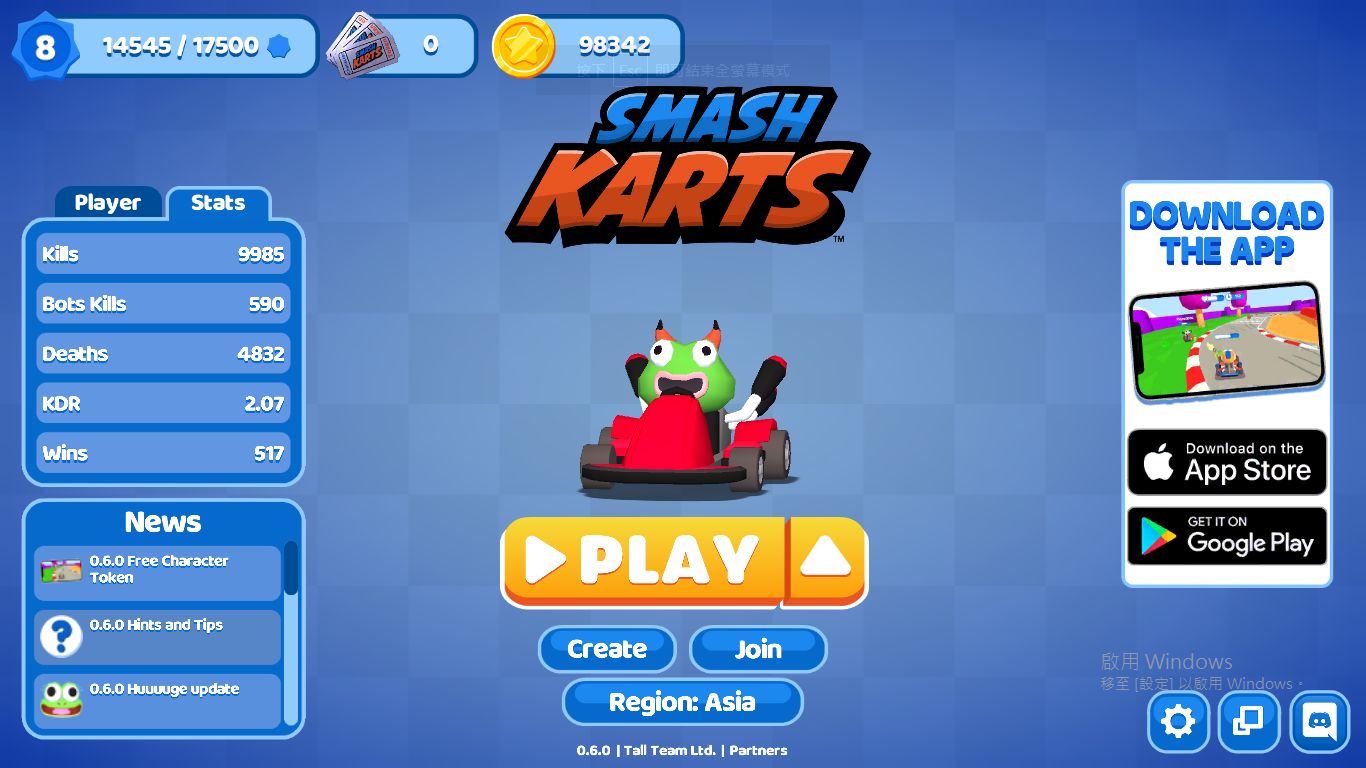
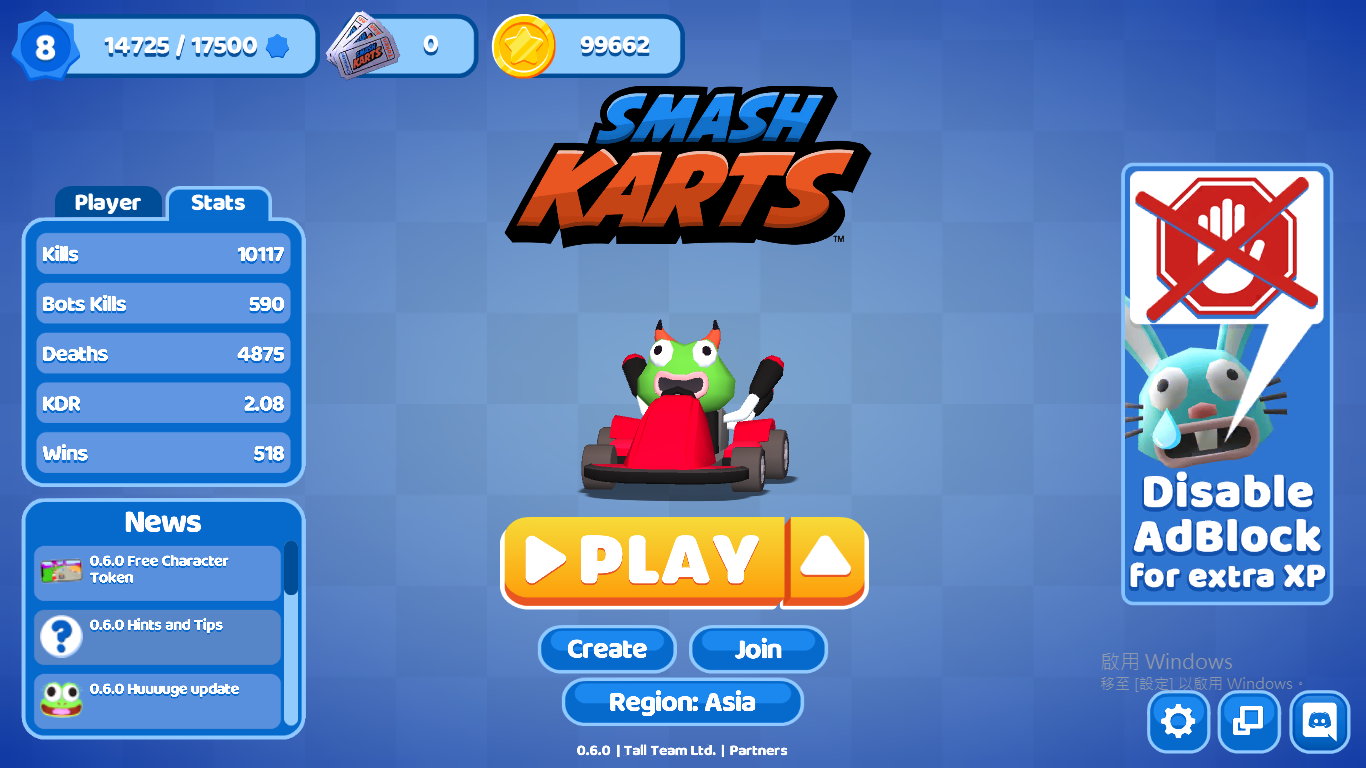
Added AlphaZero's Alt, Cruise, dreamisabadfriend, FireStorm, hotlex, KF x-ium1, NotANovice, Nought, Zeoyxl. Updated Bowser, Drew, Fubster, GetCoolAlready, haedcase, OscarTsai, smashking283, Smatisfaction, Waris Ja

diff --git a/playerList.js b/playerList.js
@@ -100,6 +100,15 @@ let player = [
      '2.30',
      17,
      '5.31.2021'],
+    ['AlphaZerosAlt.png',
+     'Alpha Zero\'s Alt' + newPlayer,
+     1072,
+     16225,
+     1004,
+     7250,
+     '2.24',
+     1,
+     '6.3.2021'],
      ['ANCIENT.png',
      'ANCIENT',
      786,
@@ -201,13 +210,13 @@ let player = [
      '5.19.2021'],
     ['Bowser.png',
      'Bowser',
-     1963,
-     28427,
-     9072,
-     14983,
-     '1.90',
-     13,
-     '5.28.2021'],
+     2034,
+     29355,
+     9083,
+     15307,
+     '1.92',
+     14,
+     '6.3.2021'],
     ['brandoom500.png',
      'brandoom500',
      167,
@@ -289,6 +298,15 @@ let player = [
      '1.16',
      12,
      '5.22.2021'],
+    ['Cruise.png',
+     'Cruise' + newPlayer,
+     639,
+     9148,
+     378,
+     6341,
+     '1.44',
+     16,
+     '6.3.2021'],
     ['David.png',
      'David',
      894,
@@ -316,15 +334,24 @@ let player = [
      '0.48',
      6,
      '5.31.2021'],
+    ['dreamisabadfriend.jpg',
+     'dreamisabadfriend' + newPlayer,
+     347,
+     4674,
+     291,
+     2432,
+     '1.92',
+     11,
+     '6.3.2021'],
     ['Drew.png',
      'Drew',
-     766,
-     13136,
-     459,
-     8327,
-     '1.58',
-     11,
-     '5.31.2021'],
+     783,
+     13392,
+     460,
+     8443,
+     '1.59',
+     12,
+     '6.3.2021'],
     ['Eli.png',
      'Eli',
      83,
@@ -361,6 +388,15 @@ let player = [
      '1.01',
      12,
      '5.28.2021'],
+    ['FireStorm.png',
+     'FireStorm' + newPlayer,
+     164,
+     3944,
+     248,
+     2958,
+     '1.33',
+     '',
+     '6.3.2021'],
     ['Forward.png',
      'Forward',
      725,
@@ -381,13 +417,13 @@ let player = [
      ''],
     ['Fubster.png',
      'Fubster',
-     700,
-     12673,
+     748,
+     1367,
      67,
-     8134,
-     '1.56',
+     8486,
+     '1.58',
      15,
-     '6.1.2021'],
+     '6.3.2021'],
     ['GANPATJAAT.png',
      'GANPATJAAT',
      3501,
@@ -399,13 +435,13 @@ let player = [
      '5.27.2021'],
     ['GetCoolAlready.png',
      'GetCoolAlready',
-     33,
-     773,
-     26,
-     722,
-     '1.07',
-     '',
-     '5.27.2021'],
+     46,
+     952,
+     27,
+     884,
+     '1.08',
+     9,
+     '6.3.2021'],
     ['GGE.png',
      'GGE',
      189,
@@ -462,13 +498,13 @@ let player = [
      '5.31.2021'],
     ['haedcase.png',
      'haedcase',
-     6147,
-     94836,
+     6198,
+     95494,
      140,
-     43010,
-     '2.20',
-     14,
-     '5.29.2021'],
+     43302,
+     '2.21',
+     15,
+     '6.3.2021'],
     ['Hello.png',
      'Hello',
      48,
@@ -478,6 +514,15 @@ let player = [
      '1.19',
      9,
      '5.18.2021'],
+    ['hotlex.png',
+     'hotlex' + newPlayer,
+     580,
+     8306,
+     151,
+     3525,
+     '2.36',
+     8,
+     '6.3.2021'],
     ['icybullet.png',
      'icybullet',
      194,
@@ -559,6 +604,15 @@ let player = [
      '1.36',
      5,
      '5.18.2021'],
+    ['KF xium1.png',
+     'KF x-ium1' + newPlayer,
+     79,
+     1025,
+     96,
+     722,
+     '1.42',
+     '',
+     '6.3.2021'],
     ['KI123NG.png',
      'KI123NG',
      217,
@@ -802,6 +856,24 @@ let player = [
      '1.78',
      8,
      '5.31.2021'],
+    ['NotANovice.png',
+     'NotANovice' + newPlayer,
+     48,
+     889,
+     85,
+     691,
+     '1.29',
+     10,
+     '6.3.2021'],
+    ['Nought.png',
+     'Nought' + newPlayer,
+     111,
+     2040,
+     127,
+     1504,
+     '1.36',
+     9,
+     '6.3.2021'],
     ['Oogway.jpg',
      'Oogway',
      43,
@@ -813,13 +885,13 @@ let player = [
      '5.14.2021'],
     ['OscarTsai.png',
      'OscarTsai',
-     517,
-     9985,
+     518,
+     10117,
      590,
-     4832,
-     '2.07',
+     4875,
+     '2.08',
      8,
-     '5.31.2021'],
+     '6.3.2021'],
     ['Ositos920.png',
      'Ositos920',
      54,
@@ -1092,13 +1164,13 @@ let player = [
      '5.17.2021'],
     ['smashking283.png',
      'smashking283',
-     1700,
-     18392,
-     6872,
-     8306,
-     '2.21',
-     14,
-     '6.1.2021'],
+     1736,
+     18794,
+     6953,
+     8456,
+     '2.22',
+     15,
+     '6.3.2021'],
     ['SmashMan360.png',
      'SmashMan360',
      1354,
@@ -1110,13 +1182,13 @@ let player = [
      '5.19.2021'],
     ['Smatisfaction.png',
      'Smatisfaction',
-     65,
-     863,
-     28,
-     416,
+     93,
+     1262,
+     42,
+     609,
      '2.07',
-     9,
-     '5.31.2021'],
+     11,
+     '6.3.2021'],
     ['SnowPanda.png',
      'SnowPanda',
      144,
@@ -1253,7 +1325,7 @@ let player = [
      10,
      '5.27.2021'],
     ['TwitchyTopHat.png',
-     'TwitchyTopHat' + newPlayer,
+     'TwitchyTopHat',
      483,
      6398,
      189,
@@ -1281,13 +1353,13 @@ let player = [
      '5.22.2021'],
     ['Waris Ja.png',
      'Waris Ja',
-     4690,
-     60000,
-     459,
-     16211,
-     '3.70',
-     '',
-     '5.14.2021'],
+     5474,
+     70000,
+     465,
+     17701,
+     '3.95',
+     19,
+     '6.3.2021'],
     ['Wass.jpg',
      'Wass',
      134,
@@ -1360,6 +1432,15 @@ let player = [
      '0.87',
      8,
      '5.22.2021'],
+    ['Zeoyxl.png',
+     'Zeoyxl' + newPlayer,
+     40,
+     1242,
+     456,
+     1454,
+     '0.85',
+     11,
+     '6.3.2021'],
     ['Zoli.png',
      'Zoli',
      33,
